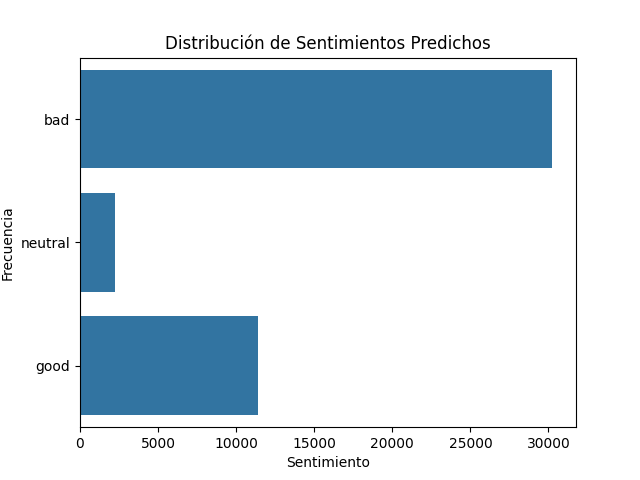
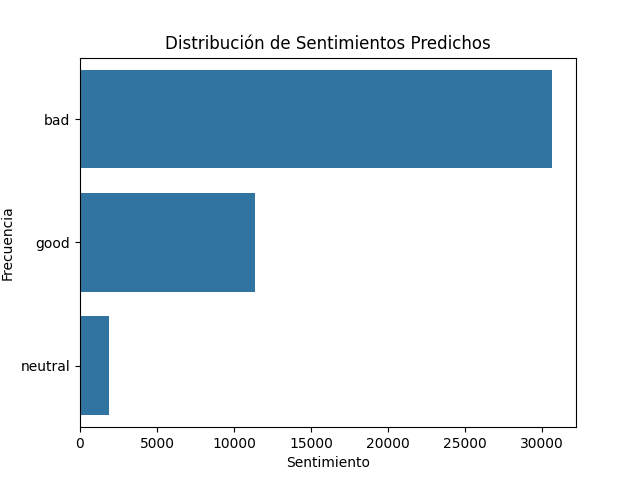
'''iujm

diff --git a/ia.py b/ia.py
@@ -1,11 +1,13 @@
 from sklearn.ensemble import RandomForestClassifier
+from xgboost import XGBClassifier
 from sklearn.model_selection import train_test_split
 from sklearn.metrics import classification_report, accuracy_score
 from gensim.models import Word2Vec
 import pandas as pd
 import numpy as np
 import ast
-from sklearn.model_selection import GridSearchCV
+from sklearn.model_selection import GridSearchCV, RandomizedSearchCV
+from sklearn.preprocessing import LabelEncoder
 
 print('cargamos los modelos y el csv')
 
@@ -28,9 +30,102 @@ y = df['sentimiento']  # Etiquetas de sentimiento
 X_train, X_test, y_train, y_test = train_test_split(X, y, test_size=0.2, random_state=42)
 
 
+
+print('Creamos el modelo')
+
+
+# Crear el clasificador Random Forest
+# # modelo_randomforest = RandomForestClassifier(n_estimators=300, max_depth= 20, min_samples_split=10, min_samples_leaf= 5, bootstrap=True, random_state=42, n_jobs=-1)
+modelo_randomforest = RandomForestClassifier( bootstrap= True, max_depth= 15, min_samples_leaf= 2, min_samples_split= 2, n_estimators= 200, random_state=42, n_jobs=-1)
+# # #n_estimators: 100 a 300, max_depth: 10 a 20, min_samples_split: 2 a 10, min_samples_leaf: 1 a 5, bootstrap = True o False    
+
+# Codificar las etiquetas si es necesario (si son 'bad', 'good', 'neutral')
+
+
+label_encoder = LabelEncoder()
+y_train_encoded = label_encoder.fit_transform(y_train)
+y_test_encoded = label_encoder.transform(y_test)
+
+
+xgb = XGBClassifier(
+    n_estimators=450,            # Número de árboles
+    max_depth=10,                # Profundidad máxima de los árboles
+    min_child_weight=10,          # Controla el peso mínimo de las hojas (equivalente a min_samples_leaf)
+    subsample=0.8,               # Usa todo el conjunto de entrenamiento (equivalente a bootstrap=True)
+    learning_rate=0.1,           # Tasa de aprendizaje, por defecto en XGBoost
+    colsample_bytree = 0.6,
+    random_state=42,             # Semilla aleatoria
+    n_jobs=-1                    # Usar todos los núcleos disponibles
+)
+modelo = xgb
+
+# Entrenar el modelo
+print('Entrenando el modelo...')
+modelo.fit(X_train, y_train_encoded)
+
+
+# Realizar las predicciones
+print('Prediciendo...')
+y_pred = modelo.predict(X_test)
+
+
+# Evaluar el rendimiento del modelo
+print("Accuracy del modelo:", accuracy_score(y_test_encoded, y_pred))
+print("\nReporte de clasificación:\n", classification_report(y_test_encoded, y_pred))
+
+
+
+import joblib
+joblib.dump(modelo, 'modelo_xgb.pkl')
+
+#añadimos la clasificacion al csv
+df['sentimiento_predicho'] = modelo.predict(X)
+
+
+#-------------------Gráficas-------------------
+import matplotlib.pyplot as plt
+
+# Contamos las clases predichas
+import seaborn as sns
+
+sns.countplot(y_pred)
+plt.title('Distribución de Sentimientos Predichos')
+plt.xlabel('Sentimiento')
+plt.ylabel('Frecuencia')
+plt.savefig('Distribución de Sentimientos Predichos.png')
+plt.show()
+
+
+from collections import Counter
+
+# Unir todas las palabras procesadas en una sola lista
+todas_las_palabras = [palabra for texto in df['procesado'] for palabra in texto]
+
+# Contar la frecuencia de cada palabra
+frecuencia_palabras = Counter(todas_las_palabras)
+
+# Mostrar las 10 palabras más comunes
+print(frecuencia_palabras.most_common(10))
+
+
+# Graficar las 10 palabras más comunes
+palabras, frecuencia = zip(*frecuencia_palabras.most_common(10))
+
+plt.barh(palabras, frecuencia)
+plt.xlabel('Frecuencia')
+plt.ylabel('Palabra')
+plt.title('Palabras Más Comunes en los Comentarios')
+plt.savefig('Palabras Más Comunes en los Comentarios.png')
+plt.show()
+
+
+
+
+
+
 #----------------------------Calcular los mejores hiperparametros para un trozo de los datos--------------------------------
 
-# # Crear un subconjunto del 30% de los datos para el tuning
+# Crear un subconjunto del 30% de los datos para el tuning
 # X_sample, _, y_sample, _ = train_test_split(X_train, y_train, test_size=0.7, random_state=42)
 
 
@@ -70,72 +165,54 @@ X_train, X_test, y_train, y_test = train_test_split(X, y, test_size=0.2, random_
 # y_pred = mejor_modelo.predict(X_test)
 
 
-#---------------------------------------------------------------------------
 
-print('Creamos el modelo')
-# Crear el clasificador Random Forest
-# # modelo_randomforest = RandomForestClassifier(n_estimators=300, max_depth= 20, min_samples_split=10, min_samples_leaf= 5, bootstrap=True, random_state=42, n_jobs=-1)
-modelo_randomforest = RandomForestClassifier( bootstrap= True, max_depth= 15, min_samples_leaf= 2, min_samples_split= 2, n_estimators= 200, random_state=42, n_jobs=-1)
-# # #n_estimators: 100 a 300, max_depth: 10 a 20, min_samples_split: 2 a 10, min_samples_leaf: 1 a 5, bootstrap = True o False    
+#------------------------Probamos con un xgboost--------------------------------
+# Crear un subconjunto del 30% de los datos para el tuning
+# X_sample, _, y_sample, _ = train_test_split(X_train, y_train, test_size=0.7, random_state=42)
 
+# from xgboost import XGBClassifier
+# import numpy as np
+# from sklearn.model_selection import RandomizedSearchCV
+# from sklearn.preprocessing import LabelEncoder
 
+# # Codificar las etiquetas de sentimiento
+# label_encoder = LabelEncoder()
+# y_sample_encoded = label_encoder.fit_transform(y_sample)
 
-# Entrenar el modelo
-print('Entrenando el modelo...')
-modelo_randomforest.fit(X_train, y_train)
+# # Definir el espacio de hiperparámetros a explorar (con distribuciones)
+# param_dist = {
+#     'n_estimators': [400, 450, 500],
+#     'max_depth': [ 7, 10, 13],
+#     'learning_rate': [0.05, 0.1, 0.15],
+#     'subsample': [0.6, 0.8, 1.0],
+#     'colsample_bytree': [ 0.4, 0.6, 0.8],
+#     'min_child_weight': [ 10, 13, 15],
+# }
 
+# # Crear el clasificador XGBoost
+# xgb = XGBClassifier(random_state=42, n_jobs=-1)
 
-# Realizar las predicciones
-print('Prediciendo...')
-y_pred = modelo_randomforest.predict(X_test)
+# # Configurar RandomizedSearchCV
+# random_search = RandomizedSearchCV(
+#     estimator=xgb,
+#     param_distributions=param_dist,
+#     n_iter=50,  # Número de combinaciones aleatorias a probar
+#     scoring='accuracy',
+#     cv=3,
+#     n_jobs=-1,
+#     random_state=42,
+#     verbose=2
+# )
 
+# # Ajustar el modelo con RandomizedSearchCV usando X_sample y y_sample_encoded
+# print("Entrenando con RandomizedSearchCV...")
+# random_search.fit(X_sample, y_sample_encoded)
 
-
-# Evaluar el rendimiento del modelo
-print("Accuracy del modelo:", accuracy_score(y_test, y_pred))
-print("\nReporte de clasificación:\n", classification_report(y_test, y_pred))
-
-
-
-import joblib
-joblib.dump(modelo_randomforest, 'modelo_randomforest.pkl')
-
-#añadimos la clasificacion al csv
-df['sentimiento_predicho'] = modelo_randomforest.predict(X)
-
-
-#-------------------Gráficas-------------------
-import matplotlib.pyplot as plt
-
-# Contamos las clases predichas
-import seaborn as sns
-
-sns.countplot(y_pred)
-plt.title('Distribución de Sentimientos Predichos')
-plt.xlabel('Sentimiento')
-plt.ylabel('Frecuencia')
-plt.savefig('Distribución de Sentimientos Predichos.png')
-plt.show()
-
-
-from collections import Counter
-
-# Unir todas las palabras procesadas en una sola lista
-todas_las_palabras = [palabra for texto in df['procesado'] for palabra in texto]
-
-# Contar la frecuencia de cada palabra
-frecuencia_palabras = Counter(todas_las_palabras)
-
-# Mostrar las 10 palabras más comunes
-print(frecuencia_palabras.most_common(10))
+# # Obtener los mejores parámetros
+# print("\nMejores parámetros encontrados:", random_search.best_params_)
+# print("Mejor puntuación obtenida:", random_search.best_score_)
 
 
-# Graficar las 10 palabras más comunes
-palabras, frecuencia = zip(*frecuencia_palabras.most_common(10))
 
-plt.barh(palabras, frecuencia)
-plt.xlabel('Frecuencia')
-plt.ylabel('Palabra')
-plt.title('Palabras Más Comunes en los Comentarios')
-plt.savefig('Palabras Más Comunes en los Comentarios.png')
-plt.show()
+
+#-----------------------------------------------------------------------------------------------------
